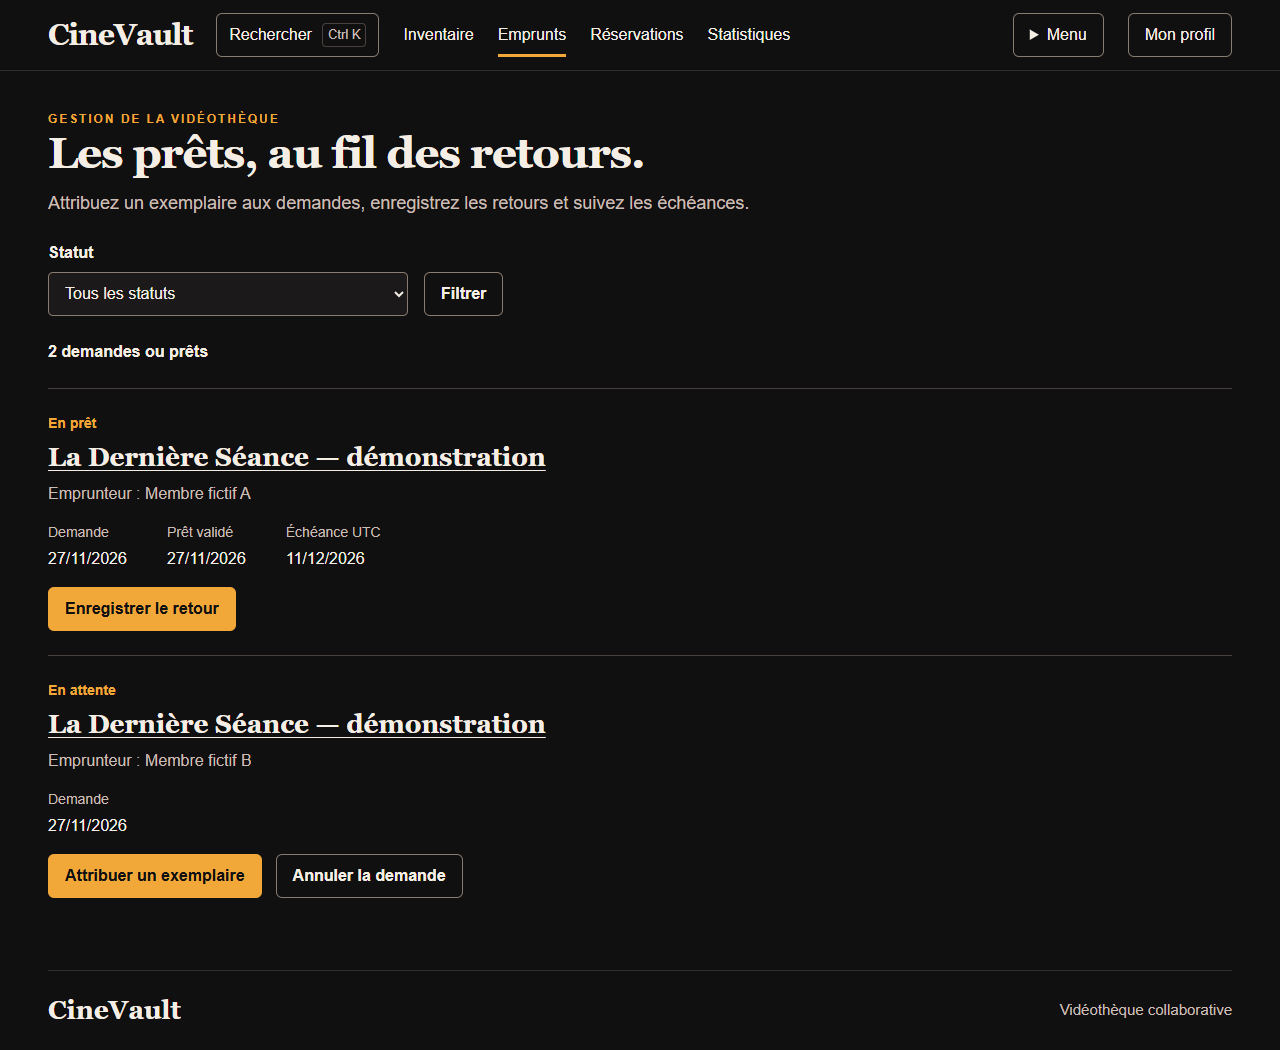
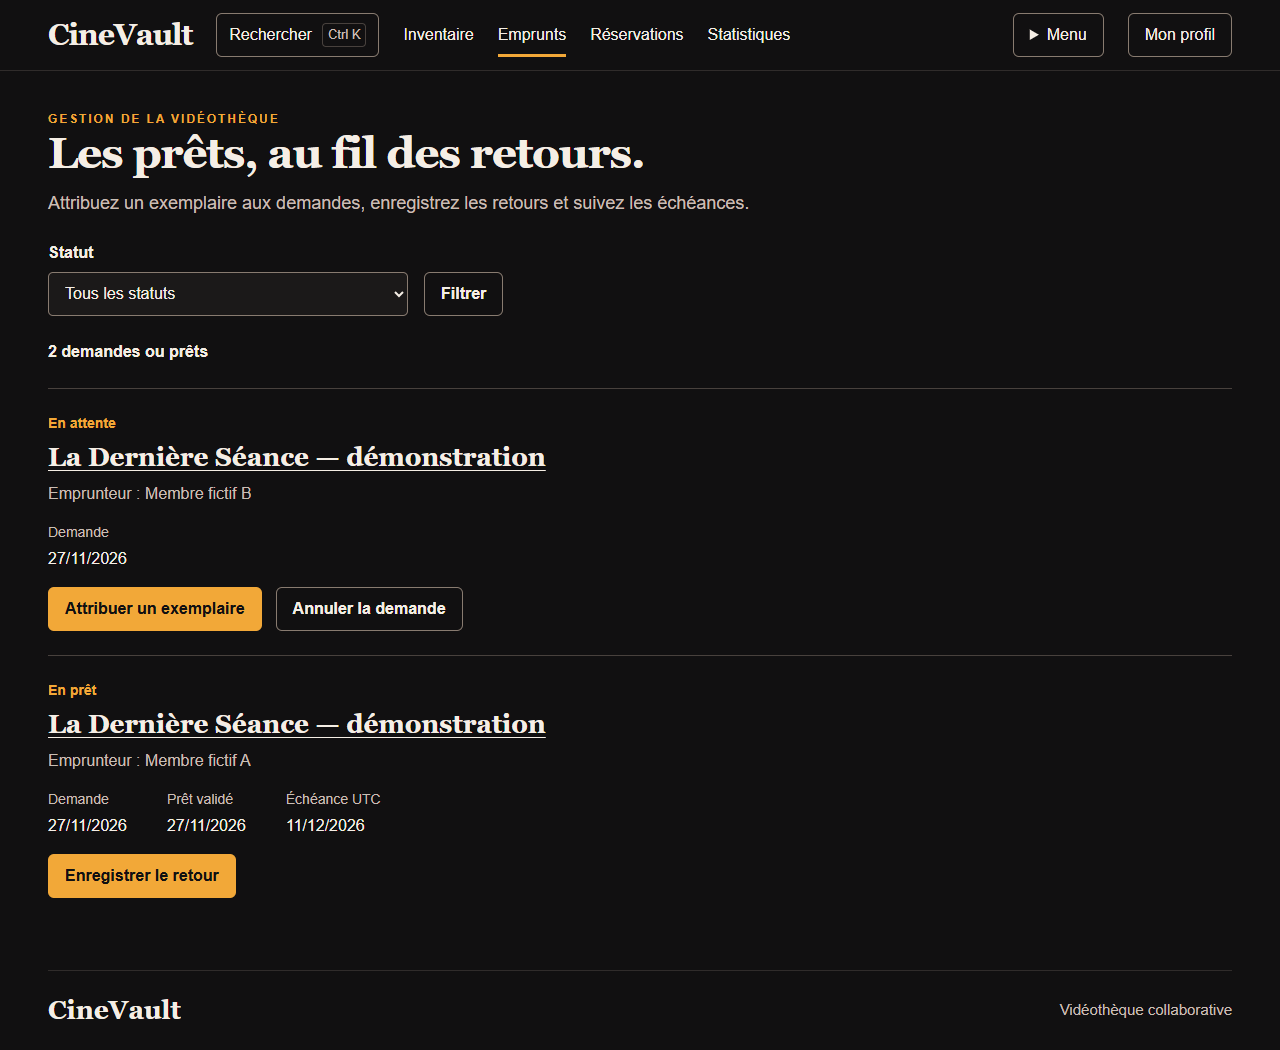
Match the rehearsed REST response to storage and refine evidence scope

diff --git a/scripts/check_signature_rehearsal.py b/scripts/check_signature_rehearsal.py
@@ -134,7 +134,7 @@ def check_traces(events, api_log, identities):
     return details
 
 
-def exercise(browser, base, config, folder, args, report, _proxy):
+def exercise(browser, base, config, folder, args, report, proxy):
     from app.telemetry import _ACCESS_LOG
 
     report["limits"] = [
@@ -220,7 +220,16 @@ def exercise(browser, base, config, folder, args, report, _proxy):
         report["stage"] = "storage_invariants"
         document = json.loads((folder / "enterprise.json").read_text(encoding="utf-8"))
         movie = [row for row in document["movies"] if row["title"] == TITLE]
-        assert len(movie) == 1 and movie[0]["id"] == film_path.rsplit("/", 1)[-1]
+        identity = film_path.rsplit("/", 1)[-1]
+        assert len(movie) == 1 and movie[0]["id"] == identity
+        public_response = first.context.request.get(
+            f"{proxy.url}/api/v1/movies/{identity}"
+        )
+        assert public_response.status == 200
+        public_movie = public_response.json()
+        assert {key: public_movie[key] for key in ("id", "title", "year")} == {
+            key: movie[0][key] for key in ("id", "title", "year")
+        }
         assert len(document["copies"]) == 1 and document["copies"][0]["id"] == copy_id
         assert sorted(row["status"] for row in document["loans"]) == [
             "active",
@@ -235,8 +244,12 @@ def exercise(browser, base, config, folder, args, report, _proxy):
             "Deux demandes, décision HTTP 303/409, un prêt actif et une réservation"
         )
         report["checks"].append(
-            "Le film rendu correspond au film conservé dans le seul fichier JSON"
+            "La fiche, la réponse REST et le document JSON concordent sur le film"
         )
+        report["catalogue_identity"] = {
+            "rest_status": 200,
+            "fields_matched": ["id", "title", "year"],
+        }
         report["circulation"] = {
             "copies": 1,
             "approval_http": [303, 409],

diff --git a/docs/soutenance-signature.md b/docs/soutenance-signature.md
@@ -25,9 +25,9 @@ précise la portée des preuves de segmentation, de collecte et d’alerte.
 | --- | --- | --- |
 | 1. Produit, 2 min | Suivre accueil, catalogue et recherche rapide avec Ctrl+K ou ⌘K. Taper un titre, choisir une suggestion au clavier, ouvrir la fiche et créer une réservation comme membre. Montrer la collection et le catalogue à 390 px. | [Qualification recherche rapide](quality/SIGNATURE_QUICK_SEARCH.md) pour le dialogue. [Acceptation produit 2.1](../evidence/public/exact-candidate-acceptance-20261126.json) pour le catalogue et les autres parcours à leurs révisions. |
 | 2. Architecture distribuée, 2 min | Présenter les rôles des trois VM et les services, réseaux et volumes observés. Suivre une requête de Web vers API puis vers la seule persistance active. Sur le banc académique, comparer fichier JSON, réponse REST et fiche rendue par Jinja. Expliquer où MongoDB intervient en mode Enterprise. | [Déploiement Swarm v1 exécuté](deploiement-swarm-enterprise.md), [exercices A/B/C](pedagogical-validation.md) et [Compose en clones neufs](../evidence/public/compose-clean-clone-20261126.json). Le reçu de [MongoDB sur overlay avec TLS](../evidence/public/swarm-mongodb-overlay-tls-20261125.json) qualifie un essai de composant. |
-| 3. Concurrence, 1 min 30 | Ouvrir deux demandes déjà enregistrées et soumettre l’attribution du même exemplaire en parallèle. Montrer les réponses Web 303 et 409, les décisions API 200 et 409 et le prêt actif unique. Distinguer la concurrence de deux demandes et le rejeu d’une seule demande. | [Reçu de répétition](../evidence/public/signature-rehearsal-20261127.json), [contrats MongoDB des services](quality/MONGODB_SERVICE_CONTRACTS.md) et [élection et rejeu](../evidence/public/mongodb-election-idempotency-20261126.json). |
-| 4. Segmentation, 1 min 30 | Comparer les réseaux effectifs et les ports publiés. Dans la variante HTTPS privée, Caddy est accessible par le tunnel opérateur et la stack publie zéro port. Suivre les réseaux distincts de Web, API et MongoDB et décrire le rôle de la liaison TLS entre API et MongoDB. | [Déploiement et réseau v1](deploiement-swarm-enterprise.md), [précontrôle des trois nœuds](../evidence/public/swarm-predeployment-readiness-20261126.json) et [essai overlay MongoDB](../evidence/public/swarm-mongodb-overlay-tls-20261125.json). Ces essais portent sur des périmètres distincts. |
-| 5. Détection, 1 min 30 | Sur le banc, ouvrir l’administration en tant que membre. Montrer le refus HTTP 403 et le même identifiant de requête entre la réponse et le journal, avec le statut et la route. Montrer une réception d’alerte seulement si le destinataire est effectivement configuré et que le reçu correspond à l’événement montré. | [Journaux et corrélation](observability.md). Le [reçu de remise inter-hôtes](../evidence/public/operational-watch-cross-host-20261126.json) concerne une campagne de qualification distincte. |
+| 3. Concurrence, 1 min 30 | Sur le banc JSON local, ouvrir deux demandes enregistrées et soumettre l’attribution du même exemplaire en parallèle. Montrer les réponses Web 303 et 409, les décisions API 200 et 409 et le prêt actif unique. Distinguer la concurrence de deux demandes et le rejeu d’une seule demande. | [Reçu de répétition](../evidence/public/signature-rehearsal-20261127.json), [contrats MongoDB des services](quality/MONGODB_SERVICE_CONTRACTS.md) et [élection et rejeu](../evidence/public/mongodb-election-idempotency-20261126.json). |
+| 4. Segmentation, 1 min 30 | Montrer le rendu de la variante HTTPS privée et son objectif de zéro port Swarm publié. Expliquer l’accès à Caddy par tunnel opérateur, les réseaux distincts et la liaison TLS entre API et MongoDB. La comparaison avec les réseaux effectifs reste à faire sur le staging signé. | [Déploiement et réseau v1](deploiement-swarm-enterprise.md), [précontrôle des trois nœuds](../evidence/public/swarm-predeployment-readiness-20261126.json) et [essai overlay MongoDB](../evidence/public/swarm-mongodb-overlay-tls-20261125.json). |
+| 5. Détection, 1 min 30 | Sur le banc, ouvrir l’administration en tant que membre. Rapprocher le 403 du Web de son journal grâce à l’en-tête de réponse. Le champ `api_request_ids` relie ce refus à l’appel API `/api/v1/me`, qui répond 200. Montrer une réception d’alerte avec le reçu du destinataire de l’événement montré. | [Journaux et corrélation](observability.md), [reçu du parcours local](../evidence/public/signature-rehearsal-20261127.json) et [remise inter-hôtes sur un banc distinct](../evidence/public/operational-watch-cross-host-20261126.json). |
 | 6. Résilience, 1 min 30 | Sur un banc isolé, suivre 200 → 502 → 200 lors d’un arrêt puis redémarrage du Web derrière Caddy. Relever les heures des observations et relire le film connu. Expliquer ce qui est mesuré et pourquoi un redémarrage du Web diffère d’une restauration de données. | [Sonde TLS pendant l’arrêt Web](../evidence/public/operational-proxy-http-20261126.json), [restauration MongoDB contrôlée](../evidence/public/mongodb-backup-http-20261126.json). Présenter la durée comme mesurée sur le banc concerné. |
 | 7. Chaîne de livraison, 2 min | Suivre une révision jusqu’au workflow, aux tests, à la nomenclature SBOM, au scanner, au digest, à la signature et à l’attestation. Montrer comment un avis High OpenSSL empêche la publication du couple candidat et donc la remise au staging. | [Périmètre de qualification](quality/ENTERPRISE_21_QUALIFICATION.md), [contrôle de provenance par tentative](../evidence/public/image-attestation-exact-attempt-20261126.json), [précontrôle des images](../evidence/public/staging-image-pair-preflight-20261126.json). Associer chaque digest au reçu de son propre essai. |
 
@@ -48,12 +48,13 @@ et supprime le stockage de démonstration à la fermeture.
 ```
 
 Le film « La Dernière Séance » a un seul exemplaire. Une fois placé en
-collection, il fait l’objet de deux demandes de prêt. Deux formulaires
-validés au même instant côté client proposent cet exemplaire. Une
+collection, il fait l’objet de deux demandes de prêt. Une barrière commune
+déclenche la soumission des deux formulaires d’attribution. Une
 attribution réussit et l’autre affiche un conflit. Le troisième membre
-rejoint la file par la fiche du film. Le reçu relie aussi la lecture du
-catalogue, le refus d’accès à l’administration et les deux décisions aux
-événements de Web et de l’API.
+rejoint la file par la fiche du film. Le titre rendu, la réponse REST et
+le document JSON se rapportent au même film. Le reçu relie la lecture
+du catalogue, le refus d’accès à l’administration et les deux décisions
+aux événements des services Web et API.
 
 [Fiche sur mobile](design/screens-signature-rehearsal/fiche-390.png) ·
 [État des deux prêts](design/screens-signature-rehearsal/circulation-1280.png) ·
@@ -106,7 +107,7 @@ python -B scripts/build_report.py --edition enterprise-2.1
 | Question | Réponse à défendre |
 | --- | --- |
 | Pourquoi deux services Flask ? | Le Web traite l’interface, les formulaires et les sessions du navigateur. L’API applique les règles métier et accède au stockage. Le protocole commun est HTTP/JSON. Montrer une requête et la réponse correspondante. |
-| Pourquoi garder deux modes de persistance ? | JSON rend les exercices inspectables et fournit un mode monohôte reproductible. MongoDB apporte les transactions, index et réplication à Enterprise. La sélection du backend au démarrage évite les doubles écritures. La migration vérifie le périmètre et le retour arrière. |
+| Pourquoi garder deux modes de persistance ? | JSON rend les exercices inspectables et fournit un mode monohôte reproductible. MongoDB apporte les transactions et la réplication à Enterprise. Les [plans de l’annuaire](quality/SIGNATURE_ACCOUNT_DIRECTORY.md#coût-des-filtres-sur-mongodb) montrent ce que couvre l’index local et où le comptage parcourt la collection. La sélection du backend au démarrage évite les doubles écritures. |
 | Que prouvent le verrou et la transaction ? | Ils garantissent l’unicité de l’état validé lors des demandes concurrentes couvertes. Le résultat observable est un seul prêt actif pour un exemplaire. Les reçus d’idempotence traitent séparément les réessais. |
 | Où les droits sont-ils vérifiés ? | Le Web filtre les destinations selon le rôle courant. Le serveur authentifie et autorise de nouveau les opérations protégées. La recherche rapide ne retourne que des données publiques de films. |
 | Pourquoi un réseau interne et TLS ? | Le réseau limite les chemins accessibles. TLS authentifie le service et protège le transport, en complément des identités et privilèges MongoDB. Un test de composant overlay ne suffit pas à qualifier une bascule complète. |

diff --git a/docs/quality/SIGNATURE_DEFENSIVE_QUALIFICATION.md b/docs/quality/SIGNATURE_DEFENSIVE_QUALIFICATION.md
@@ -6,7 +6,7 @@ pour la segmentation, la journalisation et l’alerte. Elle complète la
 [guide de staging](../staging-mongodb.md). Les résultats restent rattachés
 à leur environnement et à leurs révisions.
 
-| Garantie à vérifier sur le staging signé | Preuve acquise | Critère d’acceptation |
+| Garantie à vérifier sur le staging signé | Relevés de préparation et de composants | Critère d’acceptation |
 | --- | --- | --- |
 | Accès privé au frontal et segmentation des services | [Réseau et TLS du composant MongoDB](../../evidence/public/swarm-mongodb-overlay-tls-20261125.json) et [précontrôle des trois nœuds](../../evidence/public/swarm-predeployment-readiness-20261126.json). | Relever depuis le manager les services, digests, tâches et ports publiés. Pour la variante HTTPS privée, les quatre services publient zéro port Swarm. Le tunnel opérateur donne accès à Caddy sur `edge`. Vérifier aussi Web sur `edge` et `front`, API sur `front` et `data`, MongoDB sur `data`. |
 | Identité et échéance TLS | [Sonde TLS et expiration en banc isolé](../../evidence/public/operational-tls-expiry-20261126.json). | Les noms, autorités attendues et dates du frontal et de MongoDB concordent avec la politique. Conserver les empreintes publiques et les heures UTC de la sonde déjà prévue. |
